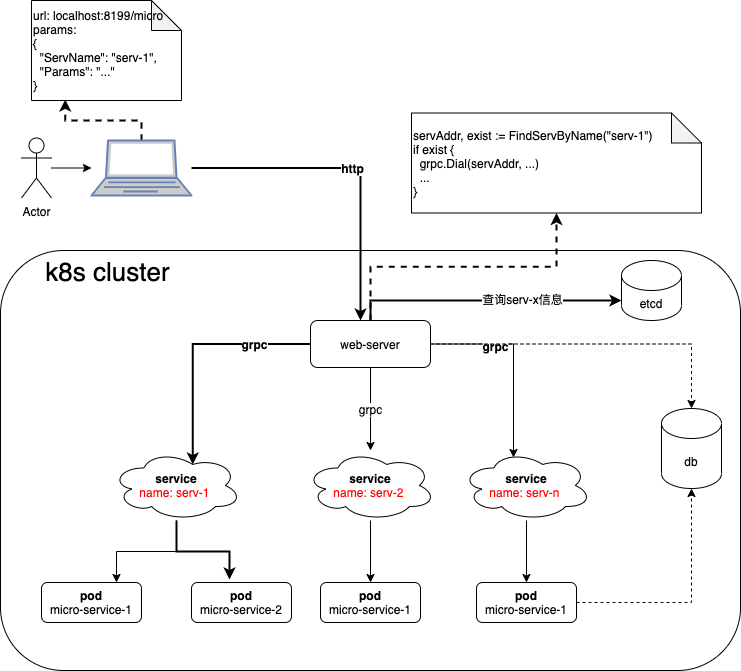
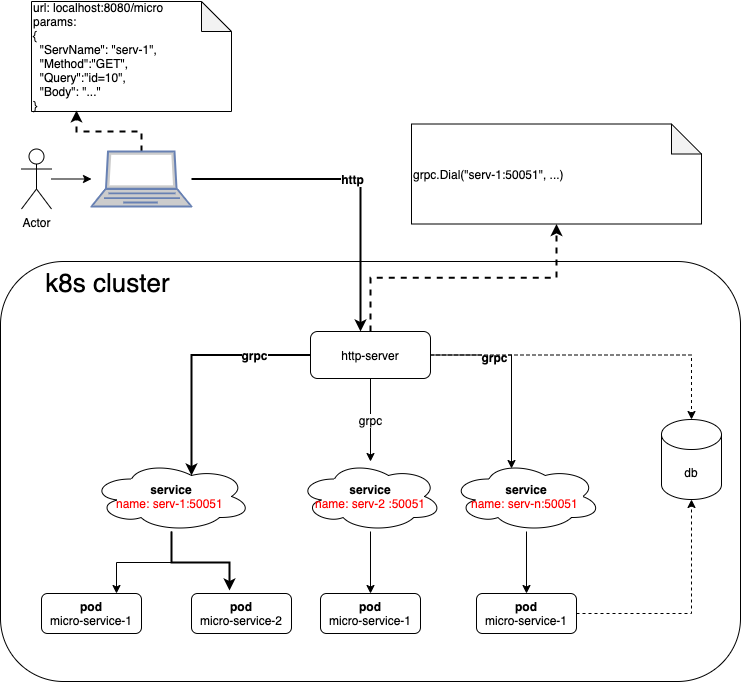
-update

diff --git a/README.md b/README.md
@@ -2,7 +2,7 @@
 ![img.png](./x-framework.png)
 
 # 目的
-在不修改web server的前提下，通过新增微服务对功能进行扩展
+在不修改http-server路由的前提下，通过新增微服务对功能进行扩展
 
 # 流程说明
 * 用户通过浏览器提交所需服务的名称以及服务所需参数等信息，发送到web server；如图中所示，用户需要"serv-1"提供服务
